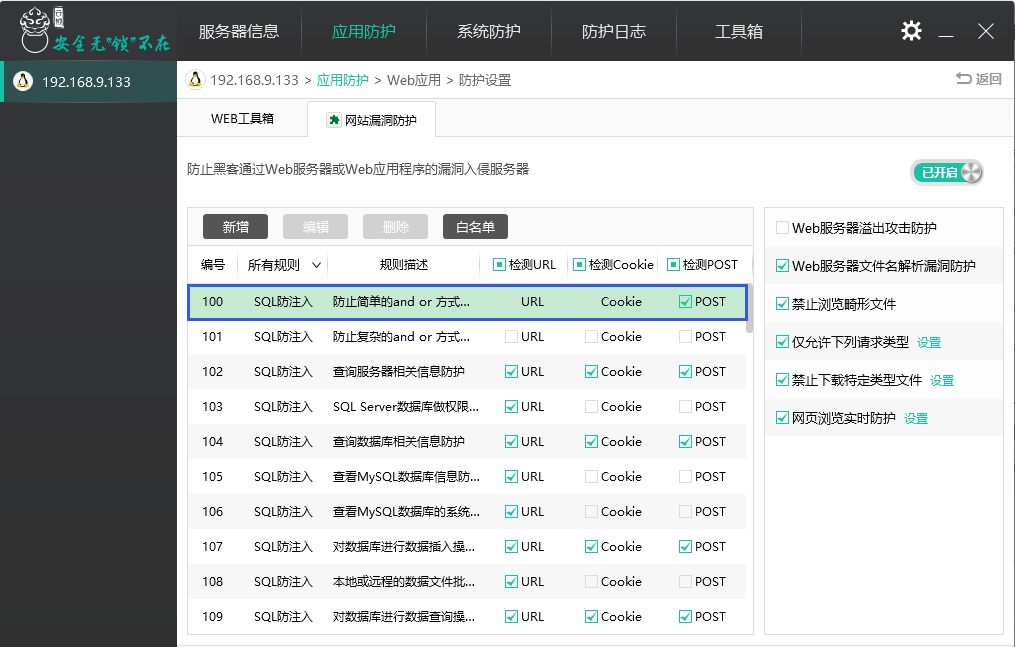
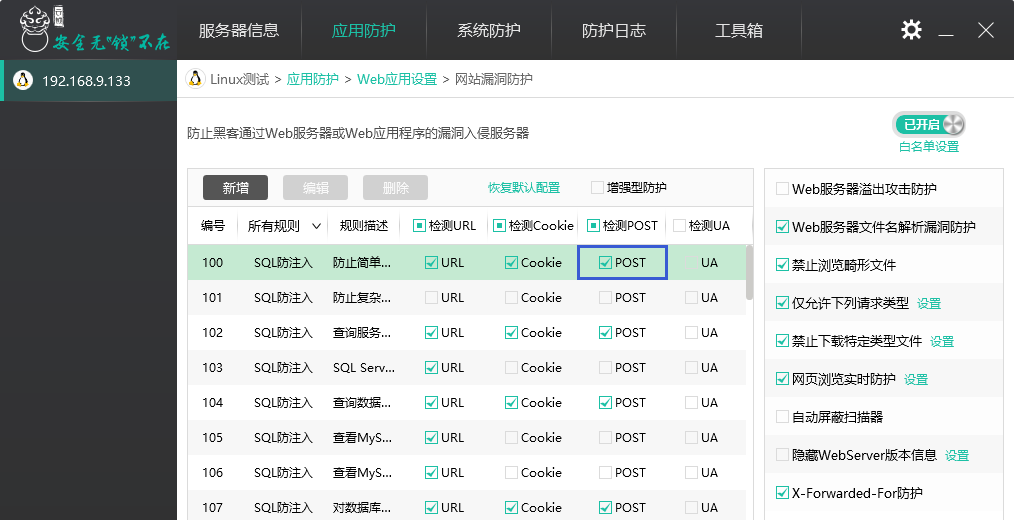
Deletes assets/f0738.png
Auto commit by GitBook Editor

diff --git a/manual/f07.md b/manual/f07.md
@@ -34,7 +34,7 @@
 
 ![](/assets/f0704.png)
 
-输入该条命令后，浏览器弹出云锁拦截界面。每当有类似的SQL注入时，云锁会弹出该拦截提示界面及提示信息。
+输入该条命令后，浏览器返回云锁拦截界面。每当有SQL注入时，云锁都会返回该拦截提示界面及提示信息。
 
 ![](/assets/f0705.png)
 
@@ -50,9 +50,9 @@
 
 ![](/assets/f0708.png)
 
-访问后会弹出与“检测URL”一样的拦截页面。同时在防护日志会生成对应的拦截日志。
+访问后会返回与“检测URL”一样的拦截页面。同时在防护日志会生成对应的拦截日志。
 
-3） 开启SQL防注入规则的“防止简单的and or方式注入”的“检测Post”。
+3） 开启SQL防注入规则的“防止简单的and or方式注入”的“检测POST”。
 
 ![](/assets/f0709.png)
 
@@ -60,9 +60,21 @@
 
 ![](/assets/f0710.png)
 
-提交后部分网站会弹出与“检测URL”一样的拦截页面，部分网站会禁止提交请求，一直显示提交中。同时在防护日志会生成对应的拦截日志。
+提交后部分网站会返回与“检测URL”一样的拦截页面，部分网站会禁止提交请求，一直显示提交中。同时在防护日志会生成对应的拦截日志。
 
-4） 除了默认的规则，我们还设置了自定义添加规则的功能，方便用户自己调整规则，充分加强了用户的自由度。
+4） 开启SQL防注入规则的“防止简单的and or方式注入”的“检测UA”。
+
+![](/assets/f0711.png)
+
+访问网站时，在http请求的User-Agent中加入“and 1=1”进行访问
+
+
+
+访问后网站会返回与“检测URL”一样的拦截页面。同时在防护日志会生成对应的拦截日志。
+
+
+
+5） 除了默认的规则，我们还设置了自定义添加规则的功能，方便用户自己调整规则，充分加强了用户的自由度。
 
 ![](/assets/f0711.png)
 
